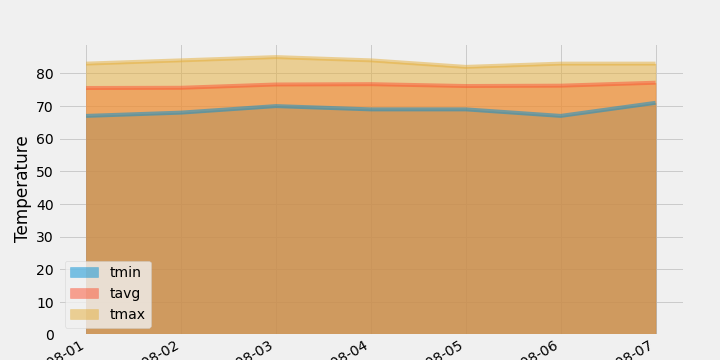
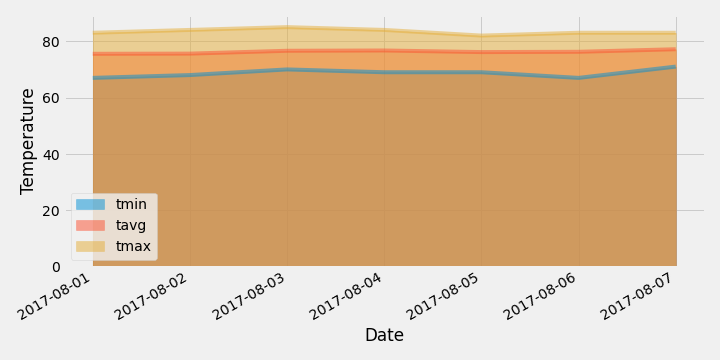
fixed readme charts

diff --git a/README.md b/README.md
@@ -37,7 +37,7 @@ This repo contains jupyter notebooks and a Flask app that query for weather data
 ### Bonus Analysis I
 
 * Average temp for a year of data displayed as a bar plot with the ends of the error bar representing the peak-to-peak temperature difference from max to min.
-![daily normals](Images/daily_normals.png)
+![daily normals](Images/avg_temp.png)
 
 
 ### Bonus Analysis II
